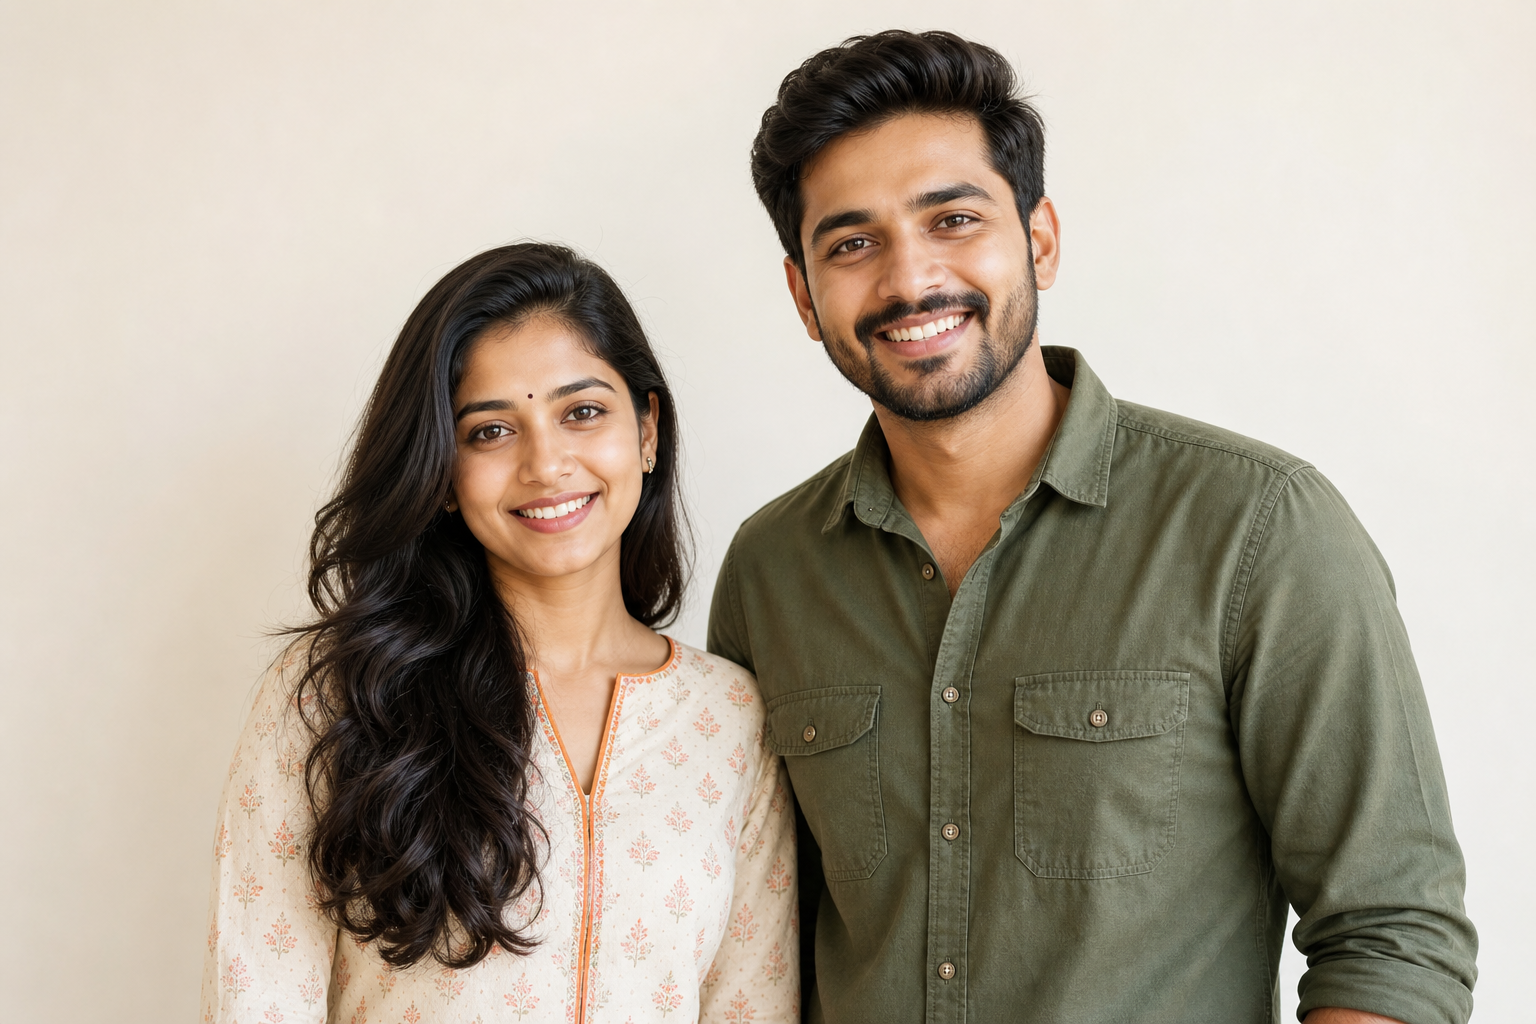
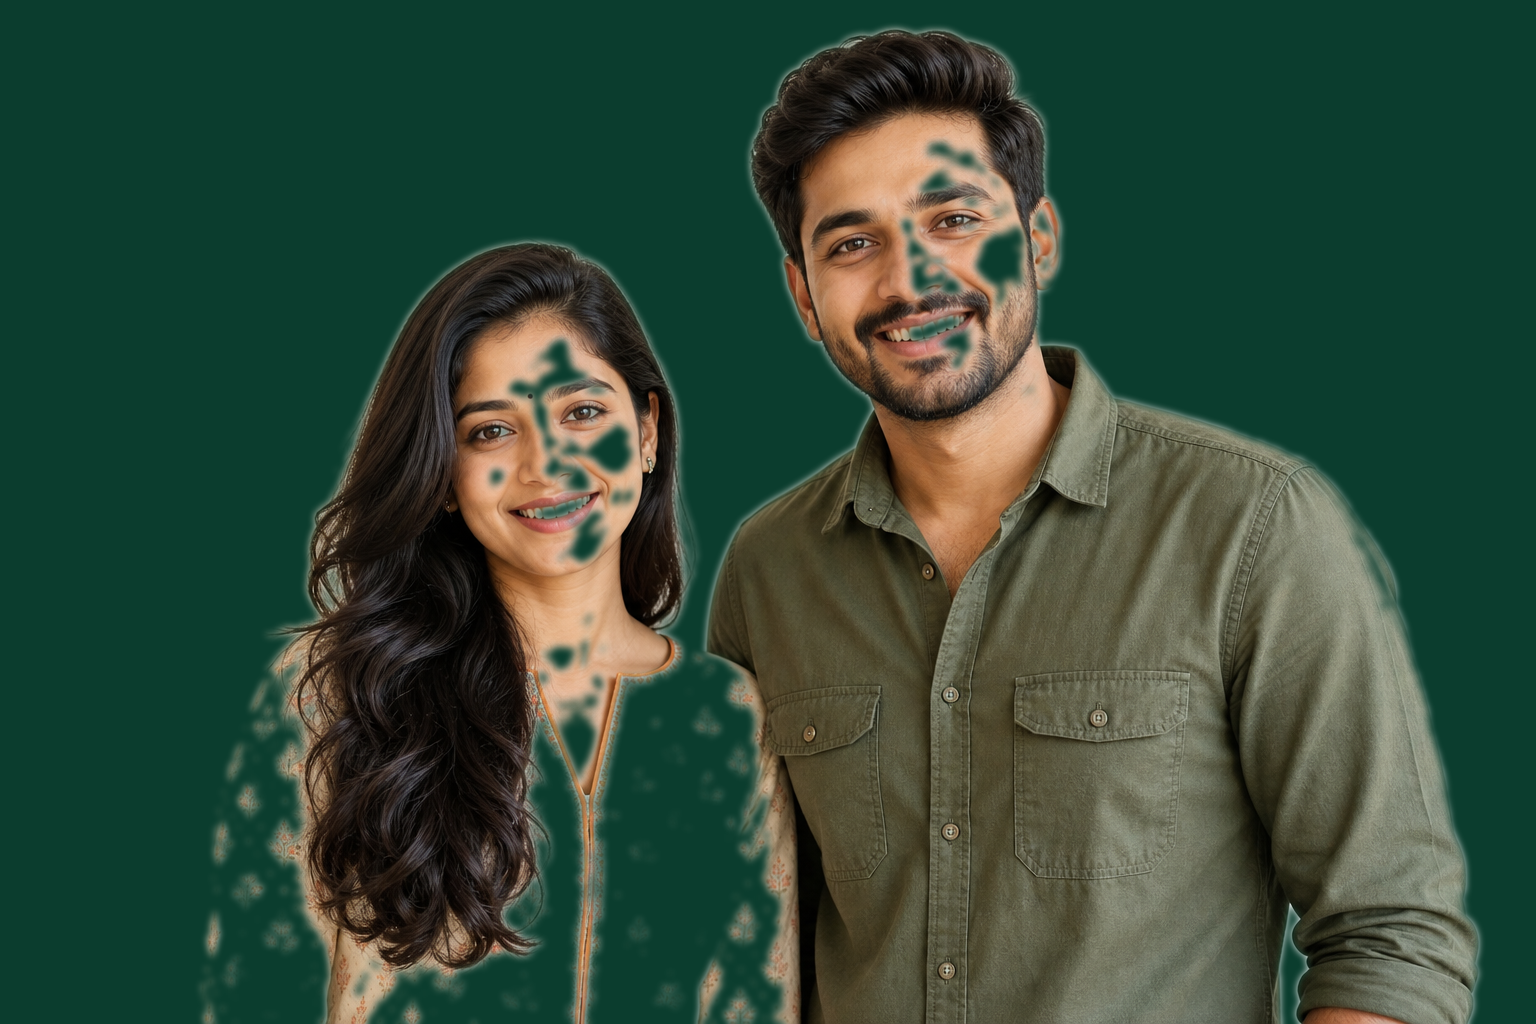
Blend hero couple image into green background (#11)
Replace the photo's beige backdrop with forest green and add a soft
gradient seam so the couple blends into the green hero panel.

diff --git a/src/styles/home.css b/src/styles/home.css
@@ -427,7 +427,7 @@ header.nav.nav-menu-open .nav-inner {
 
 .hero-layout {
   display: grid;
-  grid-template-columns: minmax(0, 1fr) minmax(0, 1fr);
+  grid-template-columns: minmax(0, 0.95fr) minmax(0, 1.05fr);
   min-height: inherit;
   align-items: stretch;
 }
@@ -436,10 +436,10 @@ header.nav.nav-menu-open .nav-inner {
   display: flex;
   flex-direction: column;
   justify-content: center;
-  padding: 120px 40px 64px clamp(28px, 5vw, 72px);
+  padding: 120px 28px 64px clamp(28px, 5vw, 72px);
   color: var(--cream);
   position: relative;
-  z-index: 1;
+  z-index: 2;
   background: var(--forest);
 }
 
@@ -504,8 +504,40 @@ header.nav.nav-menu-open .nav-inner {
   position: relative;
   min-height: 100%;
   overflow: hidden;
-  background: #e7dfd2;
-  z-index: 0;
+  background: var(--forest);
+  z-index: 1;
+  margin-left: -64px;
+}
+
+.hero-visual::before {
+  content: '';
+  position: absolute;
+  inset: 0;
+  z-index: 2;
+  pointer-events: none;
+  background: linear-gradient(
+    90deg,
+    var(--forest) 0%,
+    rgba(11, 61, 46, 0.92) 10%,
+    rgba(11, 61, 46, 0.55) 24%,
+    rgba(11, 61, 46, 0.18) 40%,
+    transparent 58%
+  );
+}
+
+.hero-visual::after {
+  content: '';
+  position: absolute;
+  inset: 0;
+  z-index: 1;
+  pointer-events: none;
+  background: linear-gradient(
+    180deg,
+    rgba(11, 61, 46, 0.12) 0%,
+    transparent 28%,
+    transparent 72%,
+    rgba(11, 61, 46, 0.18) 100%
+  );
 }
 
 .hero-image {
@@ -513,7 +545,7 @@ header.nav.nav-menu-open .nav-inner {
   height: 100%;
   min-height: min(100vh, 760px);
   object-fit: cover;
-  object-position: center top;
+  object-position: 58% top;
   display: block;
 }
 
@@ -1697,10 +1729,21 @@ footer {
   .hero-visual {
     min-height: 420px;
     order: -1;
+    margin-left: 0;
+  }
+
+  .hero-visual::before {
+    background: linear-gradient(
+      180deg,
+      transparent 55%,
+      rgba(11, 61, 46, 0.45) 78%,
+      var(--forest) 100%
+    );
   }
 
   .hero-image {
     min-height: 420px;
+    object-position: center top;
   }
 
   .hero-copy {
